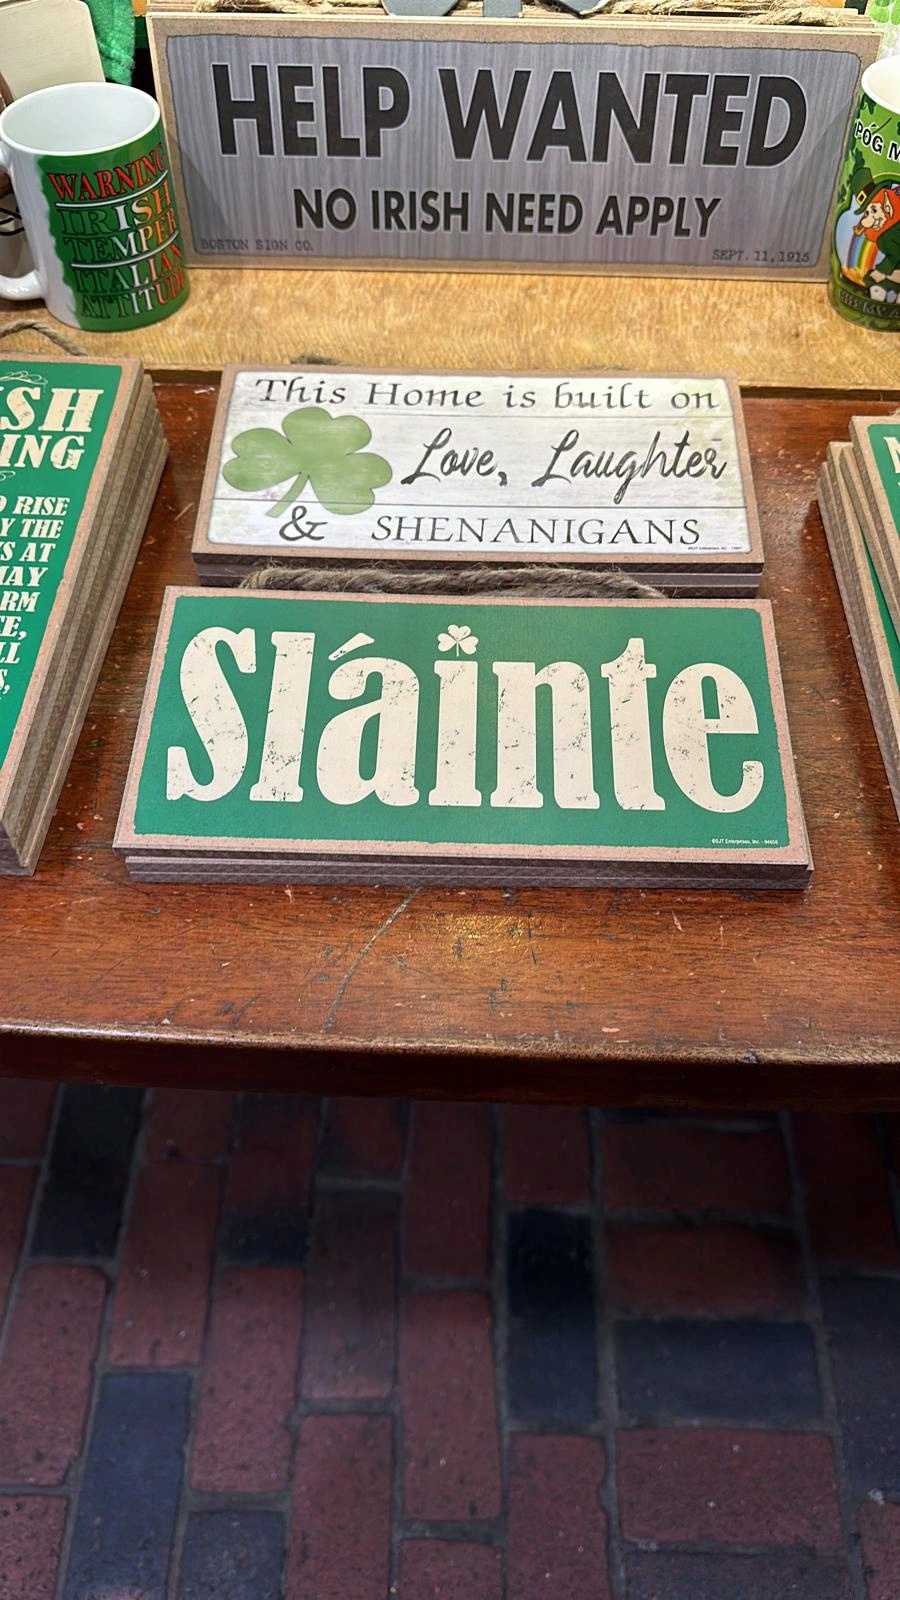
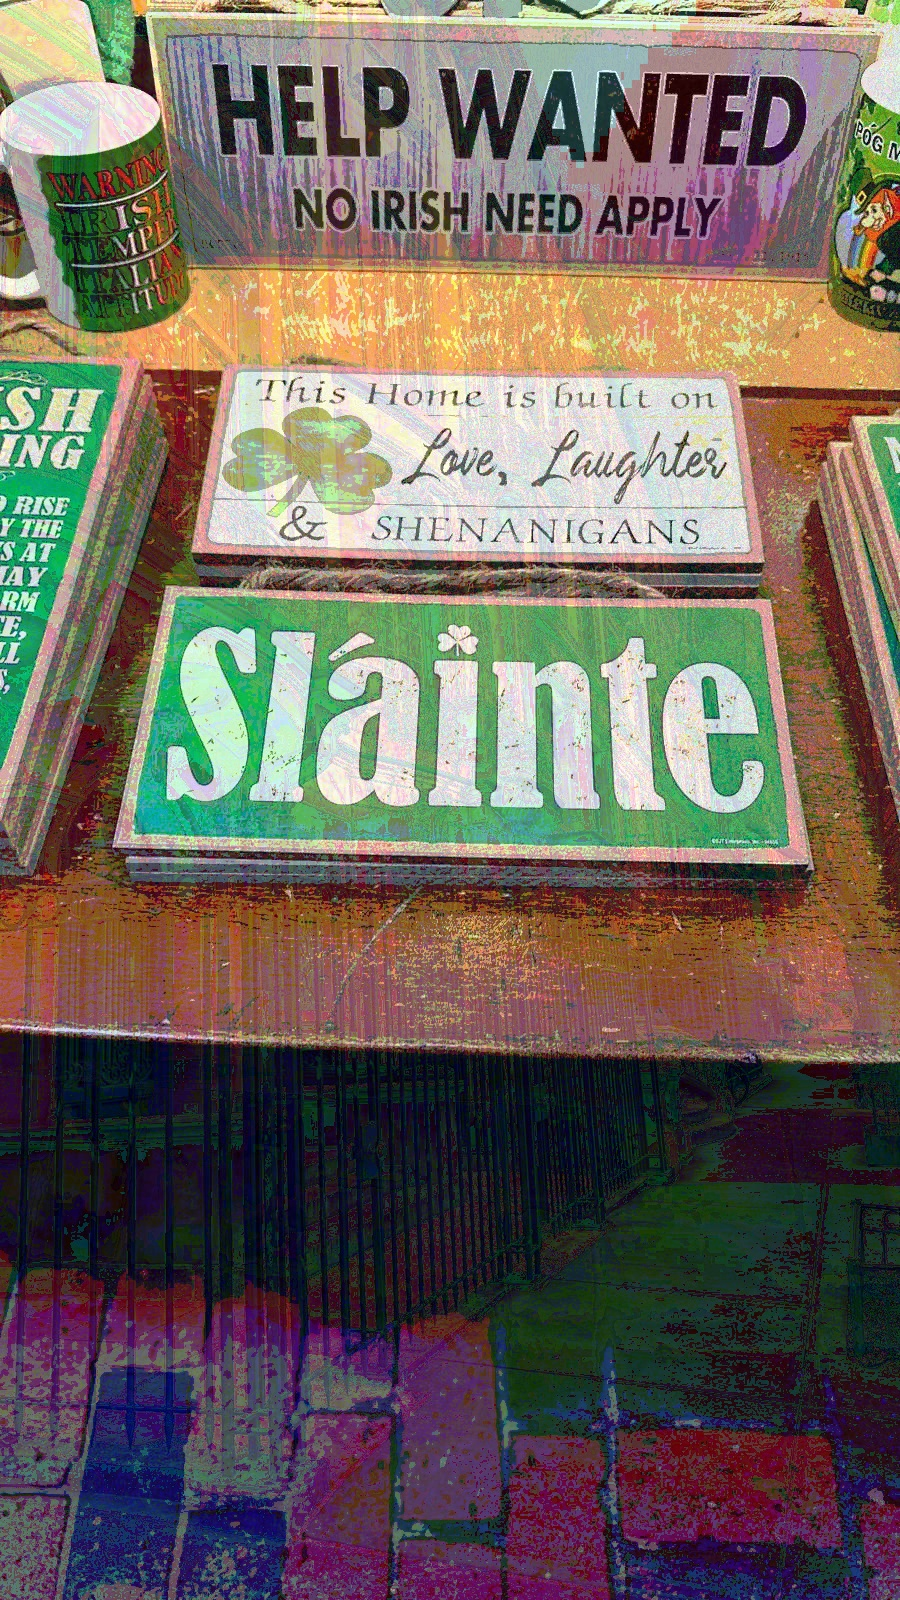
histogram bar chart added

diff --git a/helpers.py b/helpers.py
@@ -17,6 +17,8 @@ def read_images(image_name1,image_name2):
 
 #Set LSB 2 bits to 0 of rgb image
 def LSB_2_bit_to_0(image):
+    #1100 1111 0xCF 
+    # temp=cv2.bitwise_and(image, np.array([0xCF, 0xCF, 0xCF], dtype=np.uint8))
     temp=cv2.bitwise_and(image, np.array([0xFC, 0xFC, 0xFC], dtype=np.uint8))
     return temp
 
@@ -27,14 +29,18 @@ def encode_image(message_image,encoding_image):
     MSB_middle_mask=0x30
     MSB_tail_mask=0xC
     
+    shift_head= 6 #6   #0xCF ise 2
+    shift_middle=4#4  #0xCF ise 0
+    shift_tail=2 #2    #0xCF ise 2 ama sola otele
+
     and1=cv2.bitwise_and(message_image,MSB_head_mask)
-    filter1=and1 >> 6
+    filter1=and1 >> shift_head
 
     and2=cv2.bitwise_and(message_image,MSB_middle_mask)
-    filter2= and2 >> 4
+    filter2= and2 >> shift_middle
 
     and3=cv2.bitwise_and(message_image,MSB_tail_mask)
-    filter3= and3>>2
+    filter3= and3 >> shift_tail  #and3>>shift_tail   #0xCF ise sola oteleme
 
     r_channel = encoding_image[:, :, 2]
     g_channel = encoding_image[:, :, 1]  
@@ -56,6 +62,8 @@ def decode_image(cipher_image):
     b_channel = cipher_image[:, :, 0]  
 
     lsb_2_mask=0x3
+
+
     msb_head=cv2.bitwise_and(r_channel,lsb_2_mask)
     msb_middle=cv2.bitwise_and(g_channel,lsb_2_mask)
     msb_tail=cv2.bitwise_and(b_channel,lsb_2_mask)
@@ -100,13 +108,13 @@ def see_histogram(image1,image2):
 
 
     fig, axes = plt.subplots(1, 2, figsize=(10, 5))
-    axes[0].plot(histogram1, color='black')
+    axes[0].bar(range(256), histogram1[:,0], color='black')
     axes[0].set_title('Image1')
     axes[0].set_xlabel('Pixel Values')
     axes[0].set_ylabel('Pixel Count')
 
     # İkinci grafik paneline kümülatif histogramı çiz
-    axes[1].plot(histogram2, color='black')
+    axes[1].bar(range(256), histogram2[:,0], color='black')
     axes[1].set_title('Image2')
     axes[1].set_xlabel('Pixel Values')
     axes[1].set_ylabel('Pixel Count')

diff --git a/image_encoding.py b/image_encoding.py
@@ -1,30 +1,27 @@
 import cv2
 import helpers as help
 
-
-
-
 #image1 reads in Gray Scale 
 #image2 reads in RGB
 
 #Read the images
-image1,image2=help.read_images("street.jpg","slainte.jpg")
+message_image,encoding_image=help.read_images("street.jpg","slainte.jpg")
 
 #Set 0 to LSB 2 bits of rgb image
-image2_zeros=help.LSB_2_bit_to_0(image2)
+encoding_image_zeros=help.LSB_2_bit_to_0(encoding_image)
 
 #Encode image
-cipher_image=help.encode_image(image1,image2_zeros)
+cipher_image=help.encode_image(message_image,encoding_image_zeros)
 
 #Decode image
-message_image=help.decode_image(cipher_image)
+decoded_image=help.decode_image(cipher_image)
 
 
 cv2.imshow('Cipher', cipher_image)
 
-cv2.imshow('Message', message_image)
+cv2.imshow('Message', decoded_image)
 
-# help.see_histogram(image2,image2_zeros)
+# help.see_histogram(encoding_image,encoding_image_zeros)
 
 
 cv2.waitKey(0)
